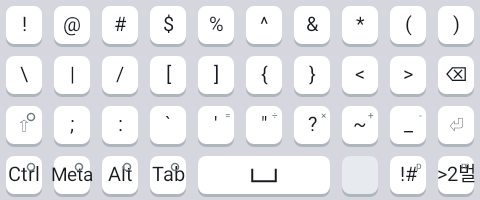
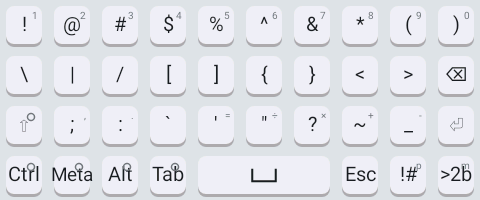
Release 0.1.96: both READMEs, fresh pictures, version
The screenshots are taken from the drawing code again, so they show what the
keyboard actually says now — Move and Next, the calculator hints in the corners,
the blank cell where 漢 was — and the two new layouts have pictures of their own.
Both READMEs carry the new names, the new holds, the two new layouts and the
system band.

diff --git a/README.md b/README.md
@@ -11,7 +11,7 @@ straight out of the APK rather than loaded into memory. It declares **one permis
 an ordinary permission that is never requested at runtime and does nothing but the buzz under your
 finger, which you can turn down to zero. No network, no account, no analytics.
 
-And nothing is missing for it: 천지인, 나랏글 and 2-beolsik, Hanja conversion, physical keyboards,
+And nothing is missing for it: Cheonjiin(천지인), Naratgeul(나랏글) and 2beolsik(2벌식), Hanja conversion, physical keyboards,
 and the special keys most keyboards leave out.
 
 > This English README is the canonical version; the Korean one is its translation.
@@ -51,8 +51,8 @@ Or take an APK directly:
 **[⬇ Android 4.0+](https://github.com/rubidus-api/retekey_apk/releases/latest/download/retekey-legacy.apk)**
 &nbsp;·&nbsp; [all releases](https://github.com/rubidus-api/retekey_apk/releases)
 
-Current release: **v0.1.95** —
-[retekey-0.1.95.apk](https://github.com/rubidus-api/retekey_apk/releases/download/v0.1.95/retekey-0.1.95.apk)
+Current release: **v0.1.96** —
+[retekey-0.1.96.apk](https://github.com/rubidus-api/retekey_apk/releases/download/v0.1.96/retekey-0.1.96.apk)
 
 Take the first link unless your phone is older than Android 9; the two are the same app and one
 replaces the other. [More about the two builds](#android-version-support). F-Droid carries the
@@ -70,7 +70,7 @@ Android 9+ build; the Android 4.0 one lives on the releases page.
    box to type in, so you can do the whole thing without hunting through system settings.
 
 To move between Korean, English and the 12-key layouts afterwards, tap the layout key at the bottom right. It is captioned with where it goes rather than where
-you are — `>qw`, `>dv`, `>2벌`, `>천`, `>나` — so you can see what the next press will give you.
+you are — `>qw`, `>dv`, `>2b`, `>cj`, `>ng`, `>arw`, `>num` — so you can see what the next press will give you.
 Hold it for the menu page. Which layouts that key walks through, and in what order, is yours to set
 in the settings.
 
@@ -116,8 +116,11 @@ never open the keypad page you will never see the parts you do not need.
 
 ## Features
 
-- **Five layouts** — 2-beolsik, QWERTY, Dvorak, and the 12-key 천지인 and 나랏글 phone modes. The layout key
-  walks the ones you enabled, in the order you set; holding it opens the menu.
+- **Seven layouts** — 2beolsik(2벌식), QWERTY, Dvorak, the 12-key Cheonjiin(천지인) and
+  Naratgeul(나랏글) phone modes, and Arrows(화살표) and Keypad(키패드) on the same 12-key frame. The
+  layout key walks the ones you enabled, in the order you set; holding it opens the menu.
+- **Out of the system's way** — the hide-keyboard and switch-keyboard buttons many ROMs draw at the
+  bottom of the screen keep their band, so no key of ours is stranded underneath them.
 - **Stateful 2-beolsik Hangul composer** with compound vowels and final consonants, consonant
   migration, and reversible backspace (닭 → 달 → 다).
 - **Hanja conversion** in both directions, with 훈음 glosses, paging, and number-key selection, in
@@ -148,25 +151,29 @@ there: 漢 for Hanja on 2-beolsik, `Esc` on QWERTY and Dvorak — a real
 `KEYCODE_ESCAPE`, for vi over ssh — and nothing on the rest. The two 12-key pages keep the same frame in
 a different shape: the modifiers own the leftmost column, every Hangul key
 is two columns wide, and the right-hand column carries backspace, space, then the period and Enter,
-with `!#` and the layout key closing the bottom row. The cell beside Tab carries 漢 on both of them, which
-converts on a tap. The two cells above it toggle what the twelve Hangul keys show: **123** puts the
-phone keypad's digits on them, **이동** the cursor cluster (arrows, Home/End, PgUp/PgDn, Ins, Esc,
-Del); the same key puts the Hangul back. 천지인 puts 다음 beside Alt and flanks ㅇㅁ with `.,` and
+with `!#` and the layout key closing the bottom row. The cell beside Tab is empty on both of
+them. The two cells above it toggle what the twelve Hangul keys show: **123** puts the
+phone keypad's digits on them, **Move** the cursor cluster (arrows, Home/End, PgUp/PgDn, Ins, Esc,
+Del); the same key puts the Hangul back. 천지인 puts Next beside Alt and flanks ㅇㅁ with `.,` and
 `!?`, which work the way the Hangul keys around them do: tapping moves through the characters on the
 face, and dragging left or right picks the one written on that side.
 
-Five letter layouts share that grid:
+Seven letter layouts share that grid:
 
 | Layout | Shape |
 |---|---|
-| **두벌식** | the standard Korean full keyboard |
+| **2beolsik(2벌식)** | the standard Korean full keyboard |
 | **QWERTY** | English |
 | **Dvorak** | English, in its own 7/10/9 shape; the three cells the top row does not need for letters carry Enter, backspace and the period, on the left |
-| **천지인** | 12-key: the elements ㅣ ㆍ ㅡ build the vowels and each consonant key cycles its group (ㄱ → ㅋ → ㄲ). A **drag** off a key types at once what the taps would reach. Off a consonant: left the plain letter (ㄱ), right the aspirate (ㅋ), down the tense one (ㄲ), and nothing above — the digit is held for, not dragged to. A group with no tense letter (ㄴㄹ, ㅇㅁ) has no cell below it either. Off a vowel key the direction points at the letter: from ㆍ, left ㅓ · right ㅏ · up ㅗ · down ㅜ; from ㅣ, left ㅔ · right ㅐ · up ㅒ · down ㅖ; from ㅡ, left ㅝ · right ㅘ · up ㅚ · down ㅟ. A dragged vowel goes on combining (drag ㅗ, tap ㅣ, and it is ㅚ). **Holding** a key raises a guide of those cells with the key's digit in the middle, and waits: drag to one and lift to type it, or lift without moving for the digit. The ten Hangul keys sit where a phone keypad's do and hold what it holds — `1`–`9`, and `0` under ㅇㅁ. Two taps of one key in a row are one cycle, so a pause — or the **다음** key — starts the next letter |
-| **나랏글** | 12-key: a consonant block with 획 adding a stroke (ㄴ → ㄷ → ㅌ) and 쌍 doubling (ㅅ → ㅆ); a vowel key pressed twice reaches its pair (ㅏ → ㅓ, ㅗ → ㅜ) and 획 iotates it (ㅏ → ㅑ, ㅗ → ㅛ). Its twelve keys sit where a phone keypad's do, so holding one types what a phone keypad holds: `1`–`9`, `0` under ㅡ, `*` and `#` either side |
+| **Cheonjiin(천지인)** | 12-key: the elements ㅣ ㆍ ㅡ build the vowels and each consonant key cycles its group (ㄱ → ㅋ → ㄲ). A **drag** off a key types at once what the taps would reach. Off a consonant: left the plain letter (ㄱ), right the aspirate (ㅋ), down the tense one (ㄲ), and nothing above — the digit is held for, not dragged to. A group with no tense letter (ㄴㄹ, ㅇㅁ) has no cell below it either. Off a vowel key the direction points at the letter: from ㆍ, left ㅓ · right ㅏ · up ㅗ · down ㅜ; from ㅣ, left ㅔ · right ㅐ · up ㅒ · down ㅖ; from ㅡ, left ㅝ · right ㅘ · up ㅚ · down ㅟ. A dragged vowel goes on combining (drag ㅗ, tap ㅣ, and it is ㅚ). **Holding** a key raises a guide of those cells with the key's digit in the middle, and waits: drag to one and lift to type it, or lift without moving for the digit. The ten Hangul keys sit where a phone keypad's do, and hold a calculator's characters rather than its digits — `+ ( ) - = % / e ^` across the pad, `$` under ㅇㅁ, `!` and `@` either side. Two taps of one key in a row are one cycle, so a pause — or the **Next** key — starts the next letter |
+| **Naratgeul(나랏글)** | 12-key: a consonant block with 획 adding a stroke (ㄴ → ㄷ → ㅌ) and 쌍 doubling (ㅅ → ㅆ); a vowel key pressed twice reaches its pair (ㅏ → ㅓ, ㅗ → ㅜ) and 획 iotates it (ㅏ → ㅑ, ㅗ → ㅛ). Its twelve keys sit where a phone keypad's do, and hold the same calculator set the other pad does: `+ ( ) - = % / e ^`, `$` under ㅡ, `!` and `@` either side. The digits themselves are a tap away under **123**, or on the Keypad layout |
 
-The layout key — captioned with the layout it is showing (한글, ABC, 천지, 나랏, DVK) — walks the layouts you ticked in settings, in the order you put them there, naming each
-one as it arrives. Holding it runs the Hanja conversion.
+| **Arrows(화살표)** | the cursor cluster on the 12-key frame — Home ↑ PgUp / ← Ins → / End ↓ PgDn / Esc Del — as a layout rather than an overlay, for when you are moving around a document rather than glancing at an arrow mid-word. Off until you turn it on in settings |
+| **Keypad(키패드)** | the phone keypad on the same frame: `1`–`9`, `*` `0` `#` typed with a tap, and the calculator set on hold. Off until you turn it on in settings |
+
+The layout key — captioned with the layout it goes to next (`>2b`, `>qw`, `>dv`, `>cj`, `>ng`,
+`>arw`, `>num`) — walks the layouts you ticked in settings, in the order you put them there, naming
+each one as it arrives. Holding it runs the Hanja conversion.
 
 Holding a letter key types a character instead of repeating it. The alternates come in three groups
 — `1234567890`, `!@#$%^&*;` and `_-:='"?` — one to a row. Their sizes are 10/9/7, which is QWERTY's
@@ -177,9 +184,9 @@ and the arrows have no alternate and keep repeating when held.
 A physical keyboard is not affected by any of this: it keeps its own layout, and the on-screen
 choice only changes what the on-screen keys do.
 
-The five, as they are:
+The layouts, as they are:
 
-**두벌식** — 漢 beside `!#` converts what you just typed:
+**2beolsik(2벌식)** — 漢 beside `!#` converts what you just typed:
 
 ![2-beolsik layout](assets/keyboard-korean.png)
 
@@ -191,13 +198,21 @@ The five, as they are:
 
 ![Dvorak layout](assets/keyboard-dvorak.png)
 
-**천지인** — 다음 beside Alt, 漢 beside Tab, and `.,` `!?` either side of ㅇㅁ:
+**Cheonjiin(천지인)** — Next beside Alt, and `.,` `!?` either side of ㅇㅁ:
 
 ![Cheonjiin layout](assets/keyboard-cheonjiin.png)
 
-**나랏글** — 획 and 쌍 on the bottom letter row, 漢 beside Tab:
+**Naratgeul(나랏글)** — 획 and 쌍 on the bottom letter row:
 
 ![Naratgeul layout](assets/keyboard-naratgeul.png)
+
+**Arrows(화살표)** — the cursor cluster as a layout of its own:
+
+![Arrows layout](assets/keyboard-arrows.png)
+
+**Keypad(키패드)** — the digits on a tap, the calculator set on hold:
+
+![Keypad layout](assets/keyboard-keypad.png)
 
 The two cells beside Tab turn the twelve Hangul keys into the phone keypad's digits, or into the
 cursor cluster, and back again:
